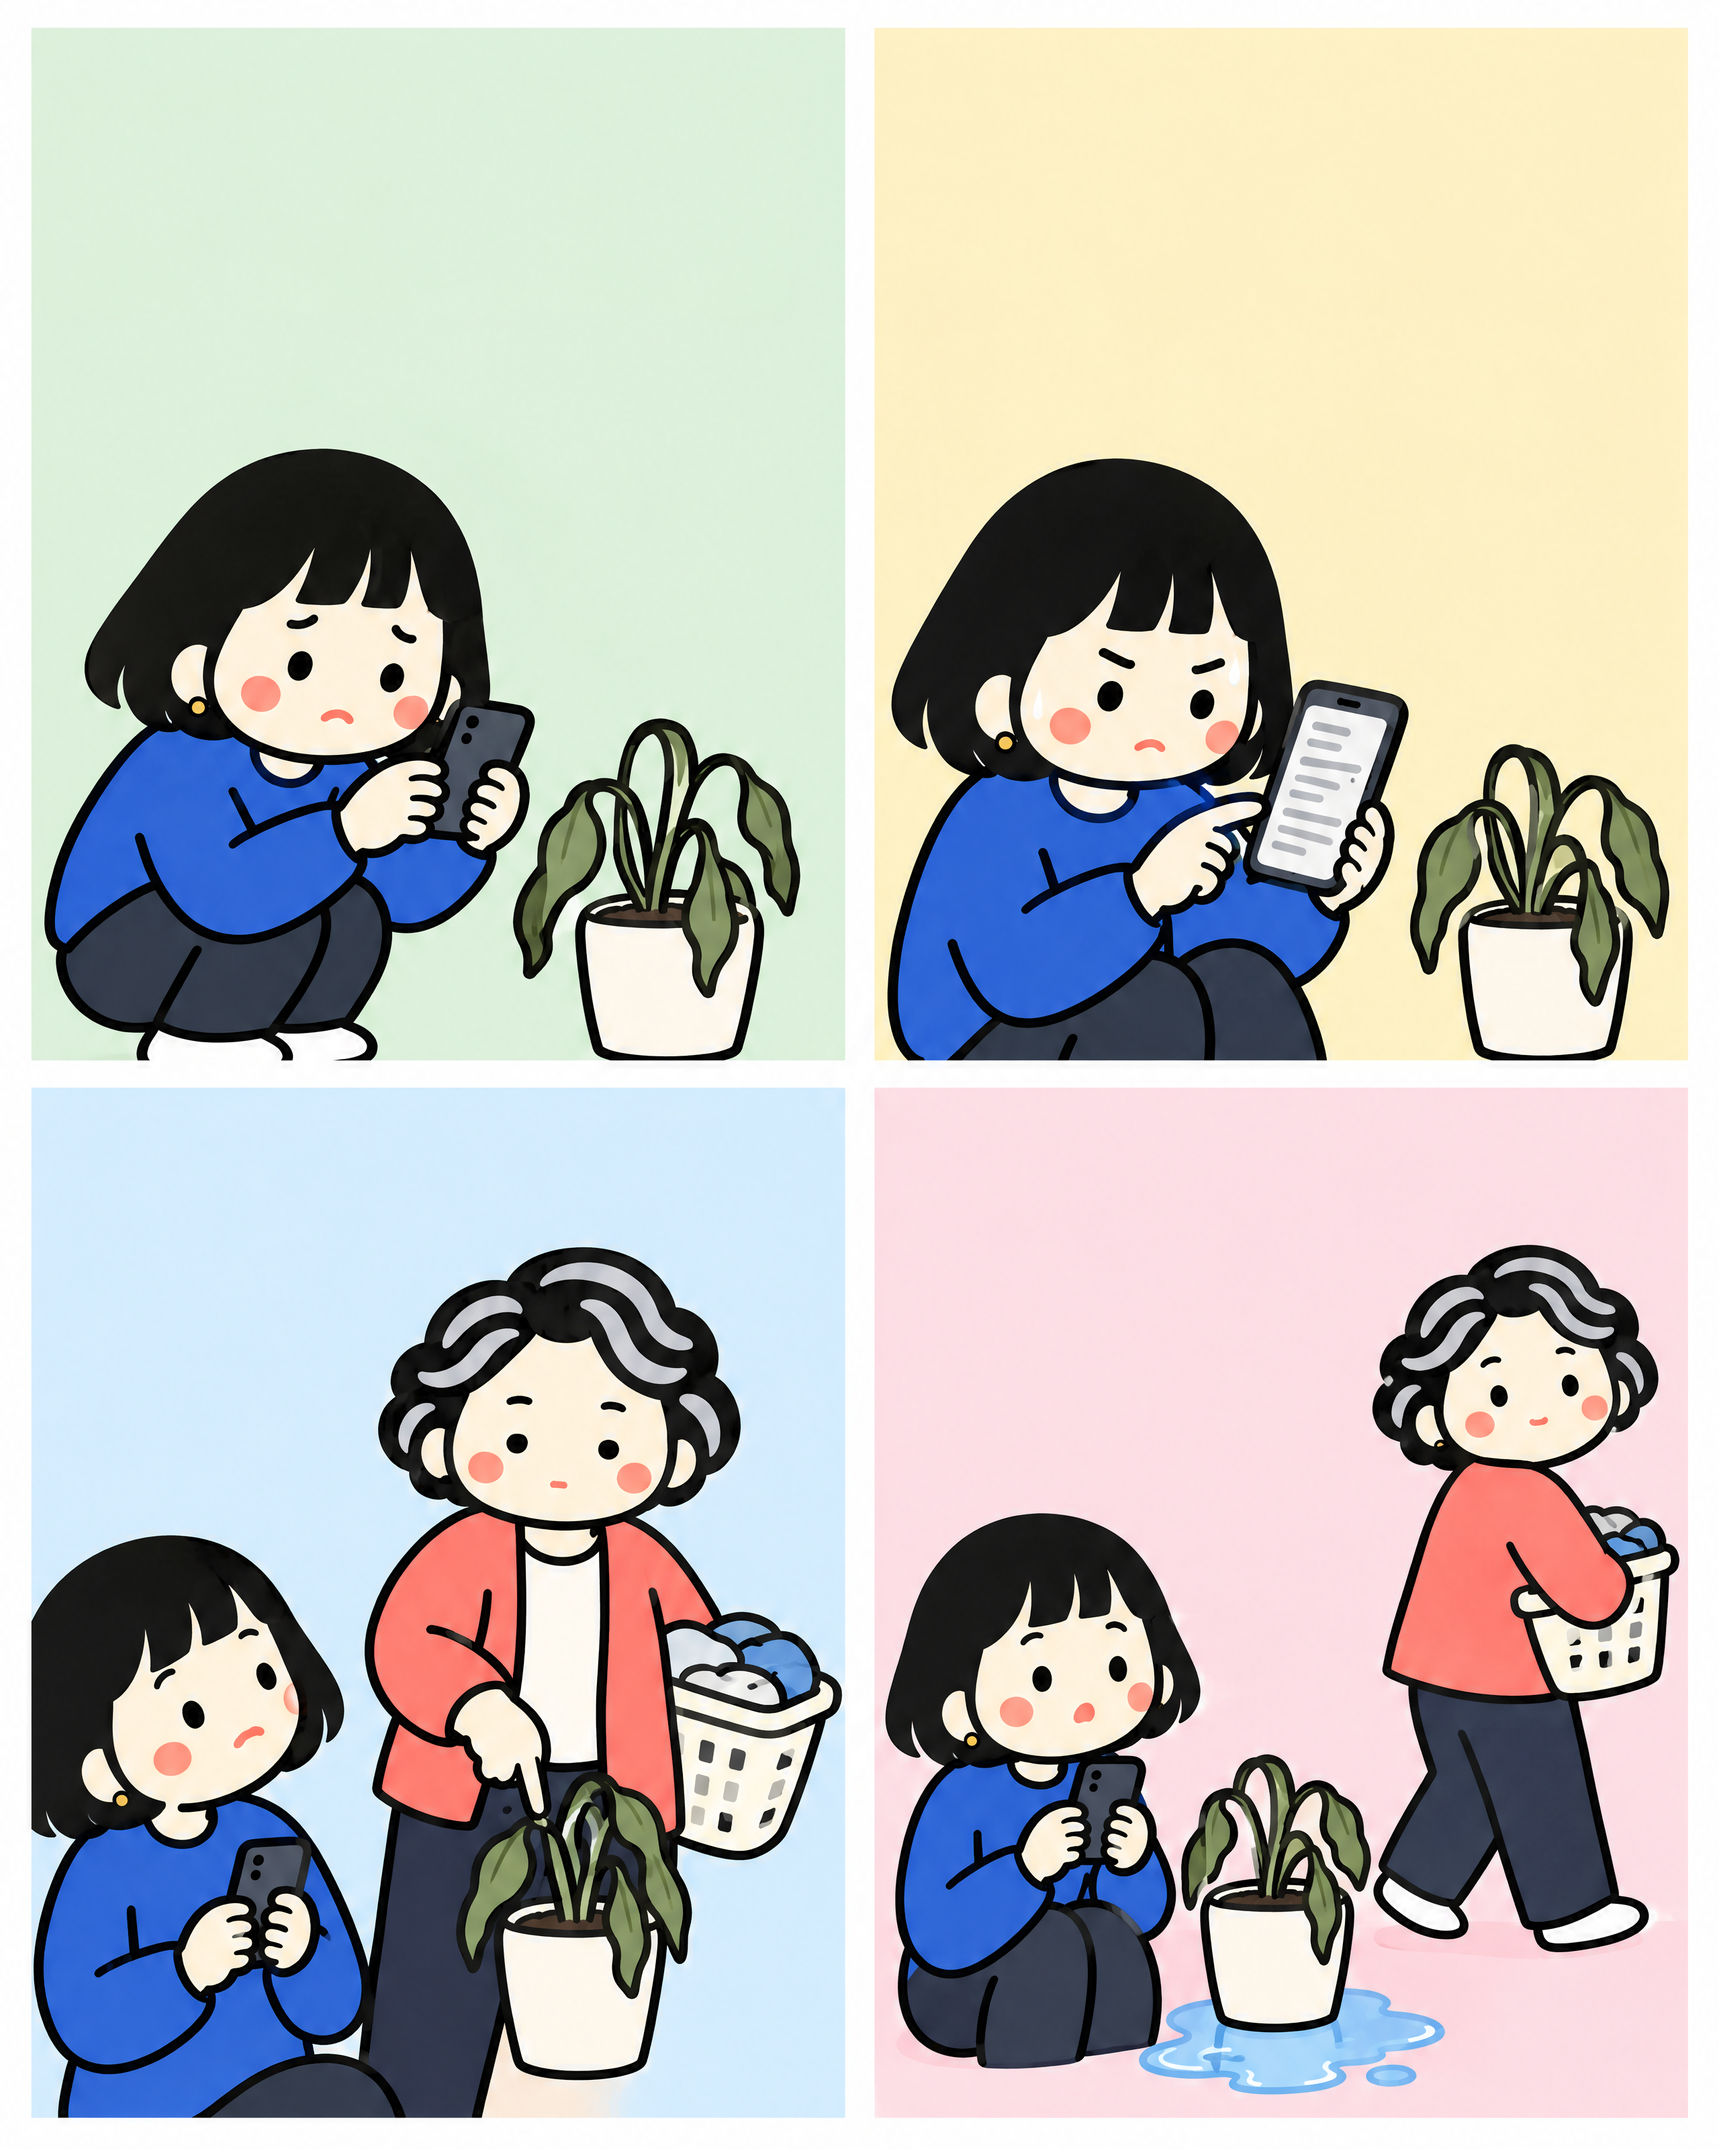
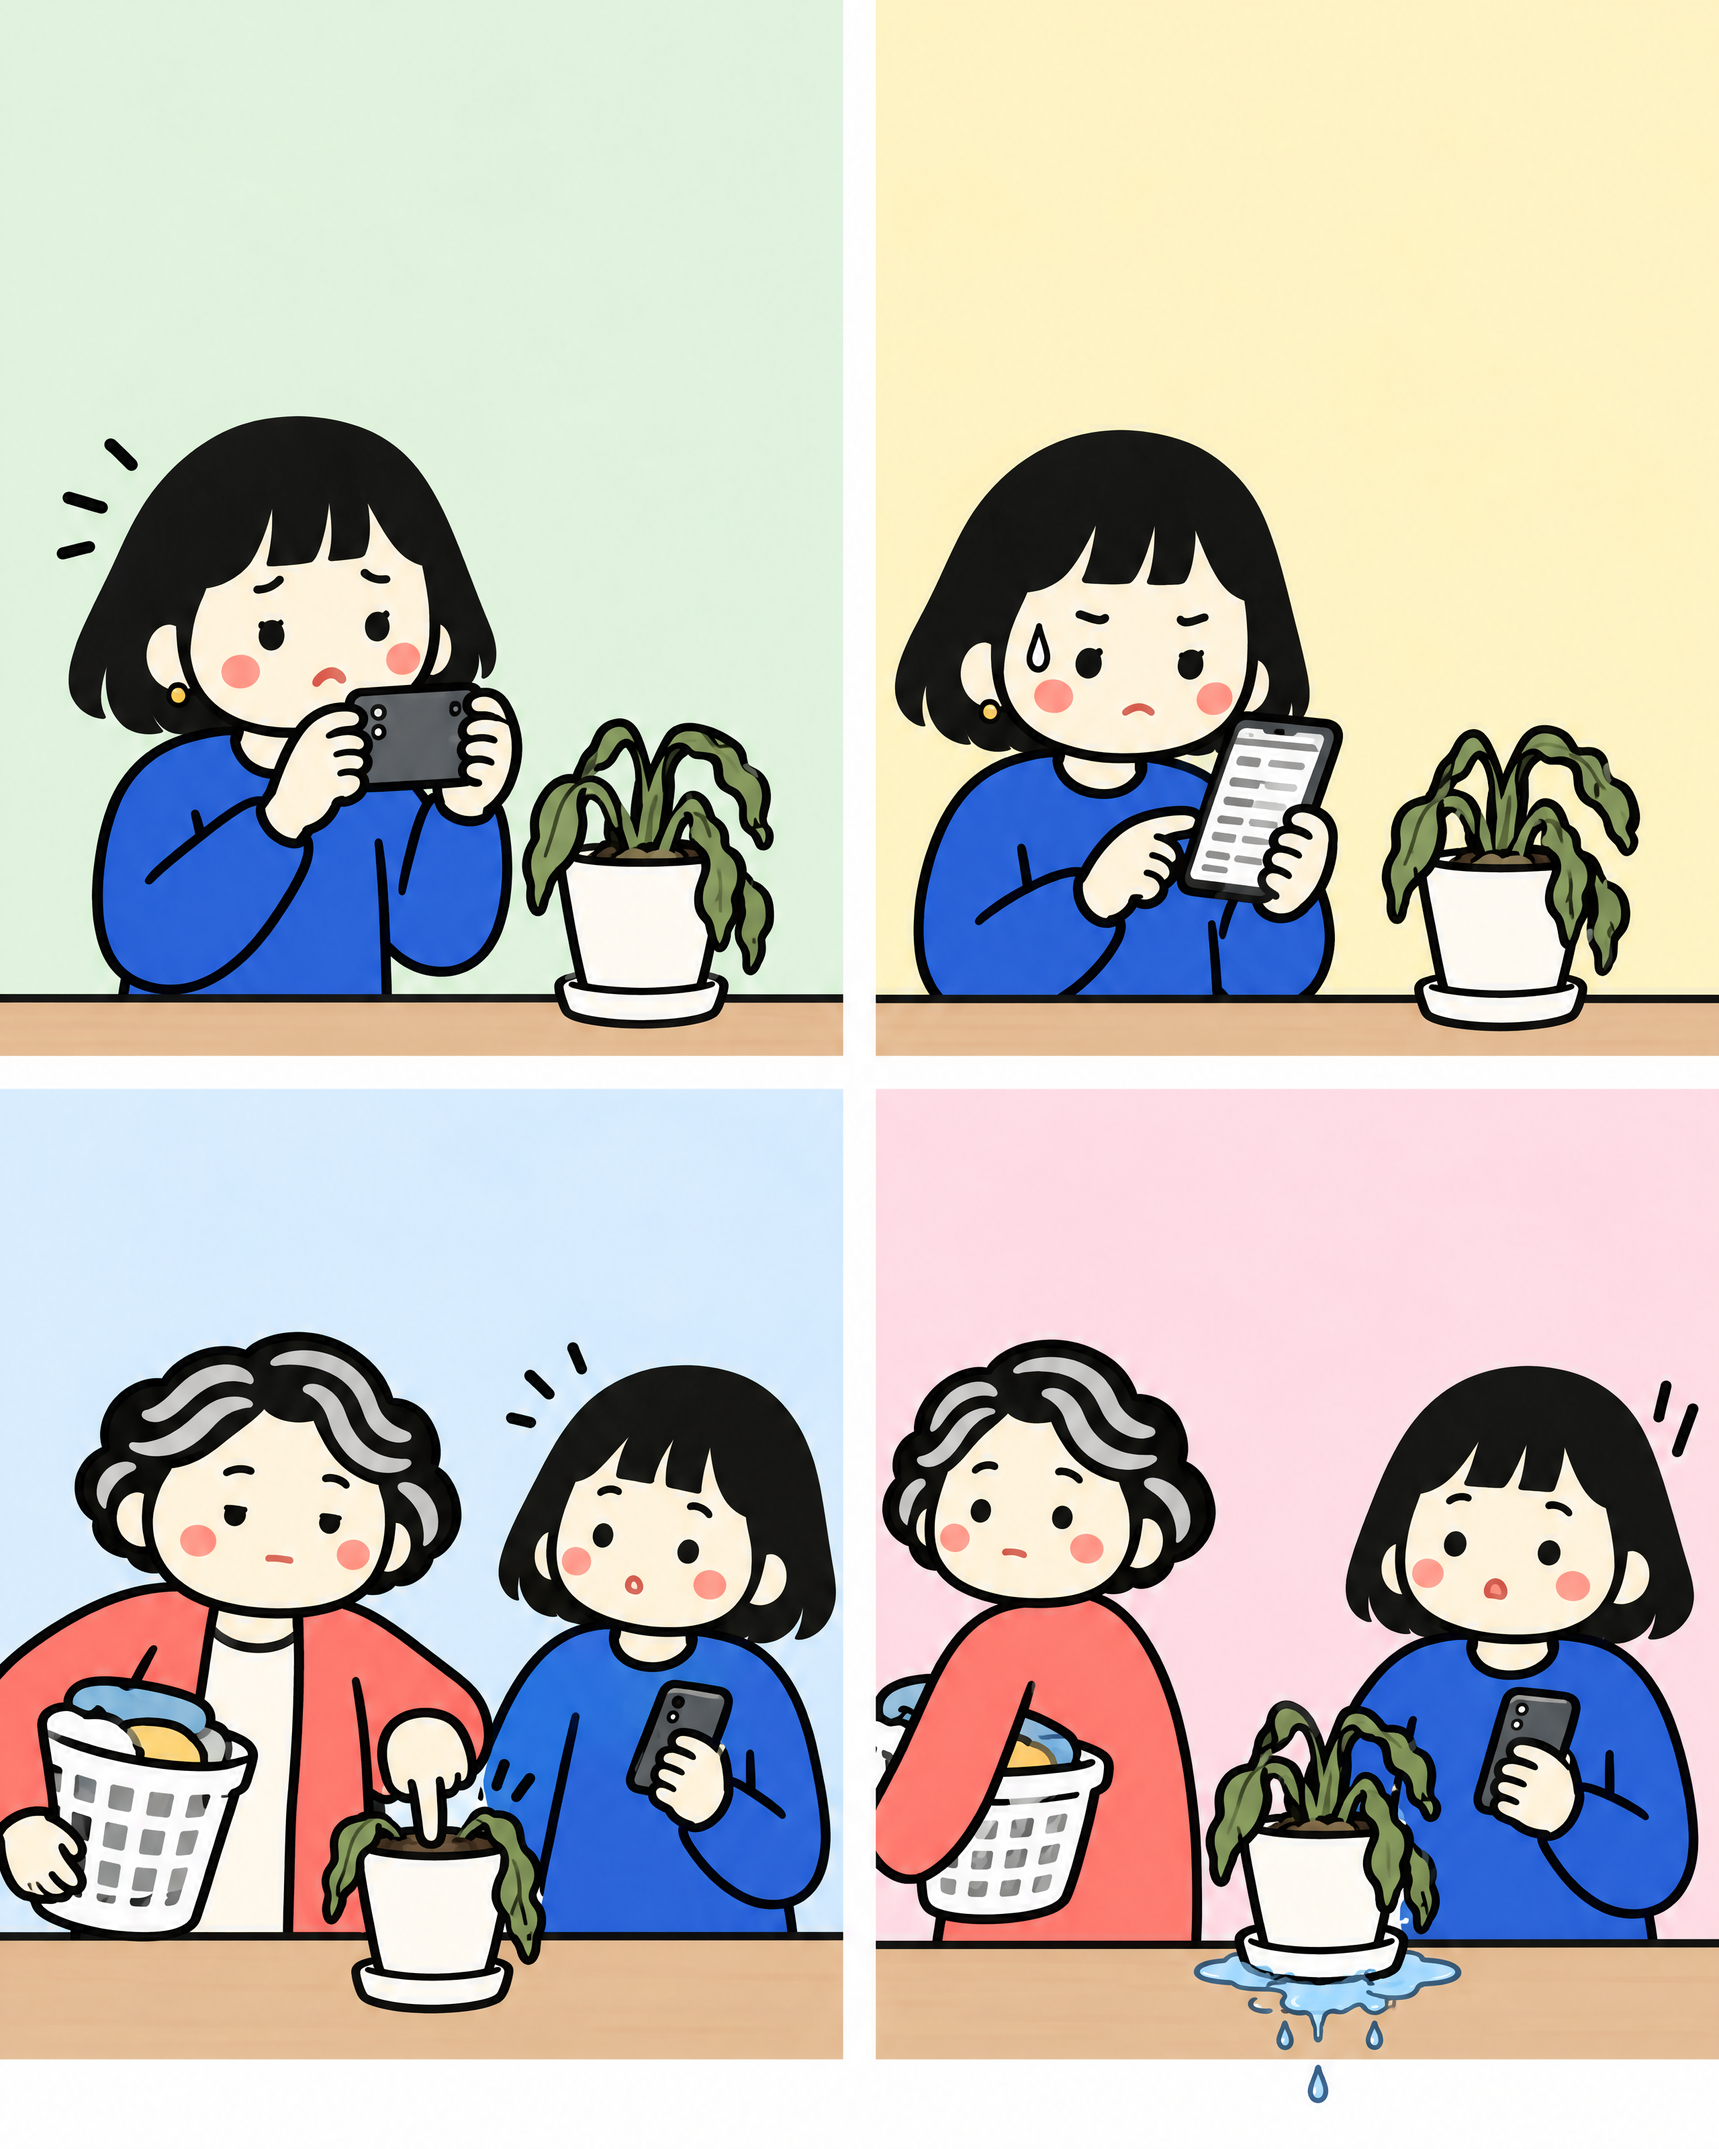
인스타툰 9화: 전신 구도에서 다리·발이 어색해 허리 위 구도로 다시 그림
Claude-Session: https://claude.ai/code/session_01TpvqMc5KNKkQbuz6MBrCKq

diff --git a/toon/make_toon.py b/toon/make_toon.py
@@ -78,11 +78,11 @@ EPS = [
         [("say", "나는 읽고\n말도 한다.", .36, .13, .26, .34), ("say", "치킨 네 번.", .70, .345, .50, .46)],
     ], news="내가 허락하면\n구글 AI가 카드 쓴\n내역을 봐요.", note="읽기만 하고, 돈을 옮기지는 못해요.", no=8, date="11월 24일", band="#FFE27A", pop="#F06A5C", faceof=3, face=(22, 48, 200)),
     dict(key="ep9", sheet="ep9.webp", title="한 마디", panels=[
-        [("say", "왜 시들지?\nAI한테 물어봐야지.", .5, .15, .34, .42)],
-        [("cap", "AI의 답: 원인 열두 가지", .05, .04), ("think", "과습, 햇빛, 통풍,\n뿌리 썩음, 벌레…", .55, .25, .36, .46)],
-        [("sfx", "쿡", .88, .905, -8)],
-        [("say", "물 많이 줬네.", .36, .16, .66, .25, 1.25)],
-    ], news="농사 고민을\nAI '이삭이'에게\n물어볼 수 있어요.", note="AI 진단은 참고만 하세요.", no=9, date="11월 23일", band="#C9EBCF", pop="#2348D6", faceof=2, face=(62, 30, 200)),
+        [("say", "왜 시들지?\nAI한테 물어봐야지.", .5, .15, .36, .36)],
+        [("cap", "AI의 답: 원인 열두 가지", .05, .04), ("think", "과습, 햇빛, 통풍,\n뿌리 썩음, 벌레…", .56, .24, .44, .40)],
+        [("sfx", "쿡", .80, .93, -8)],
+        [("say", "물 많이 줬네.", .42, .16, .30, .31, 1.25)],
+    ], news="농사 고민을\nAI '이삭이'에게\n물어볼 수 있어요.", note="AI 진단은 참고만 하세요.", no=9, date="11월 23일", band="#C9EBCF", pop="#2348D6", faceof=2, face=(22, 55, 200)),
 ]
 
 
